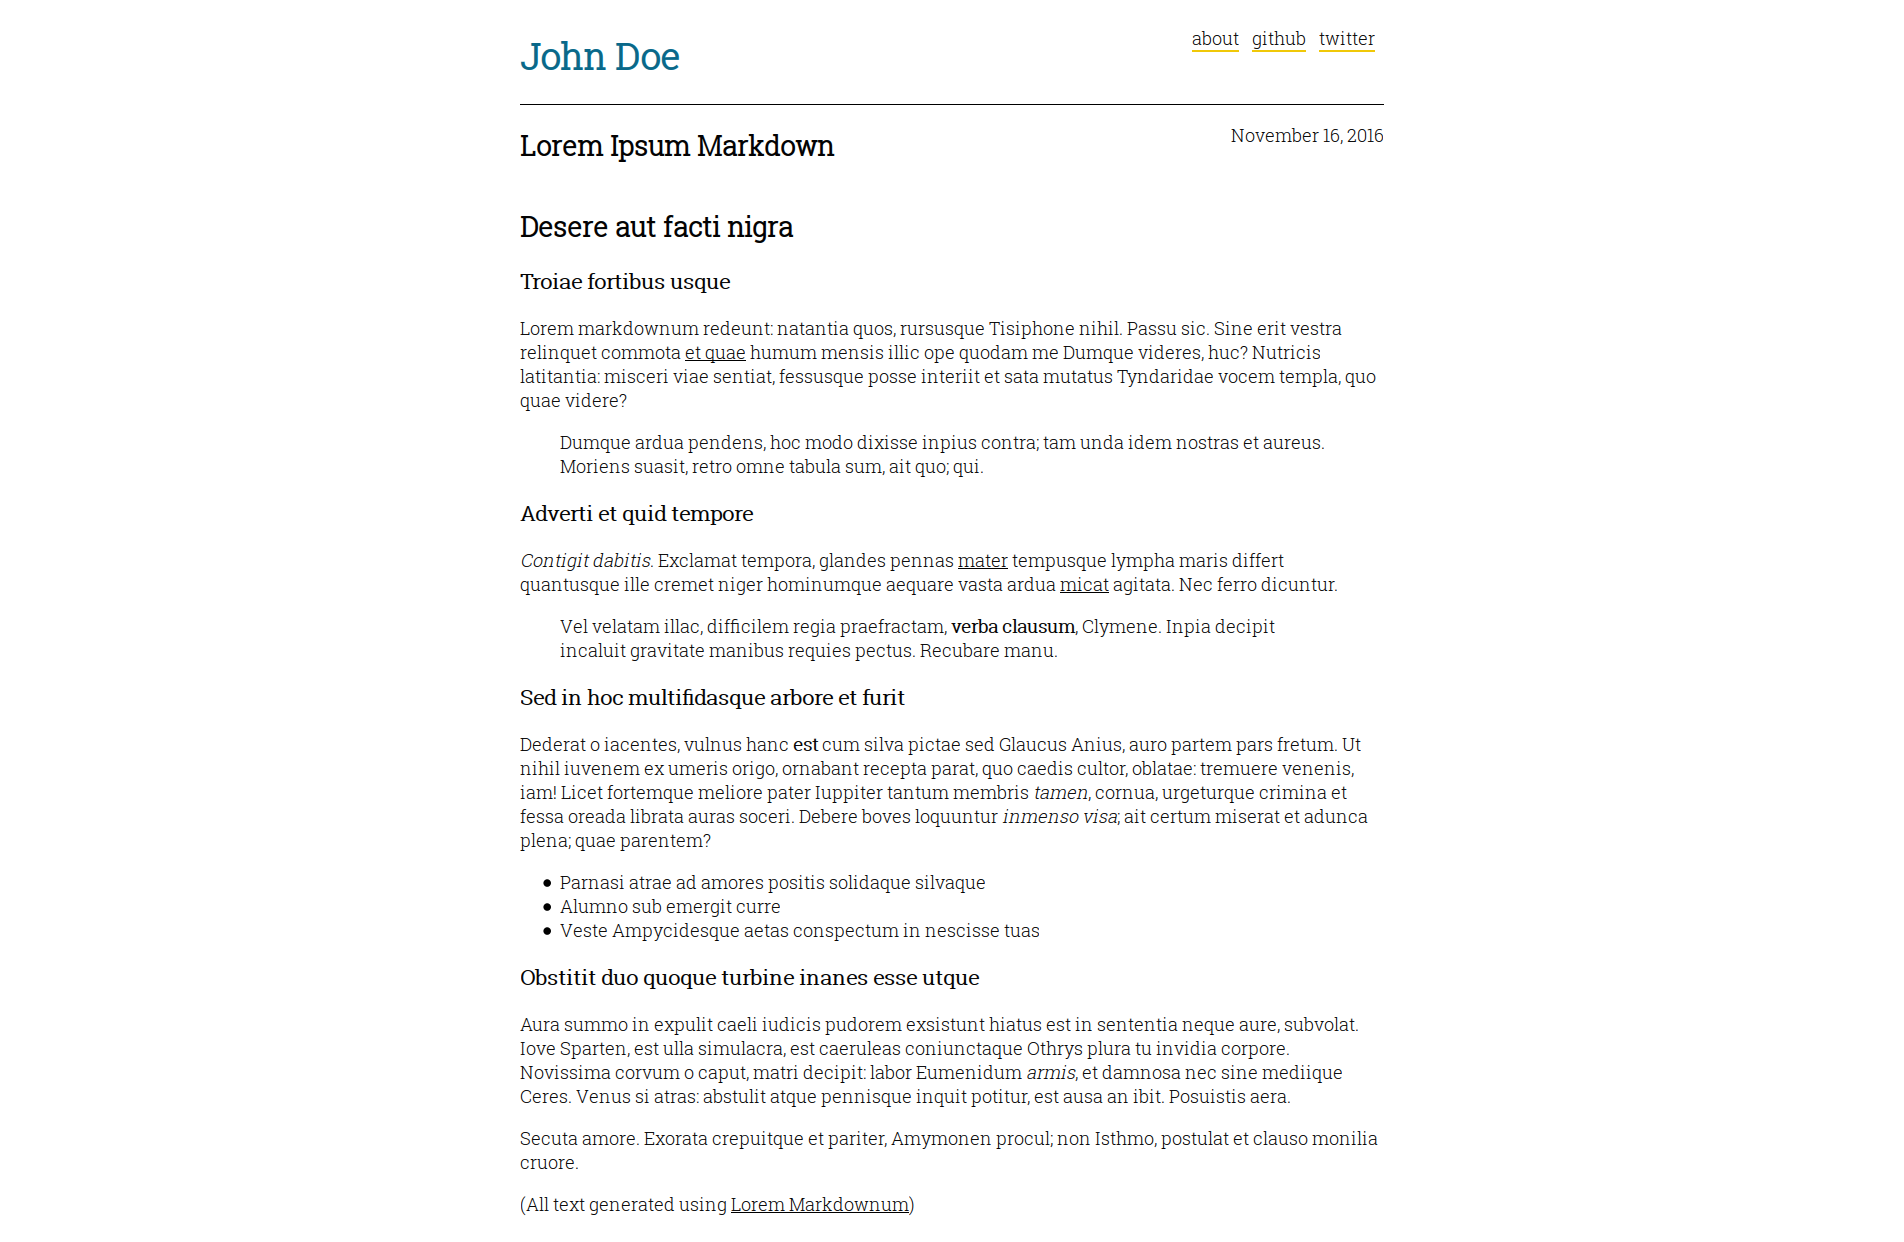
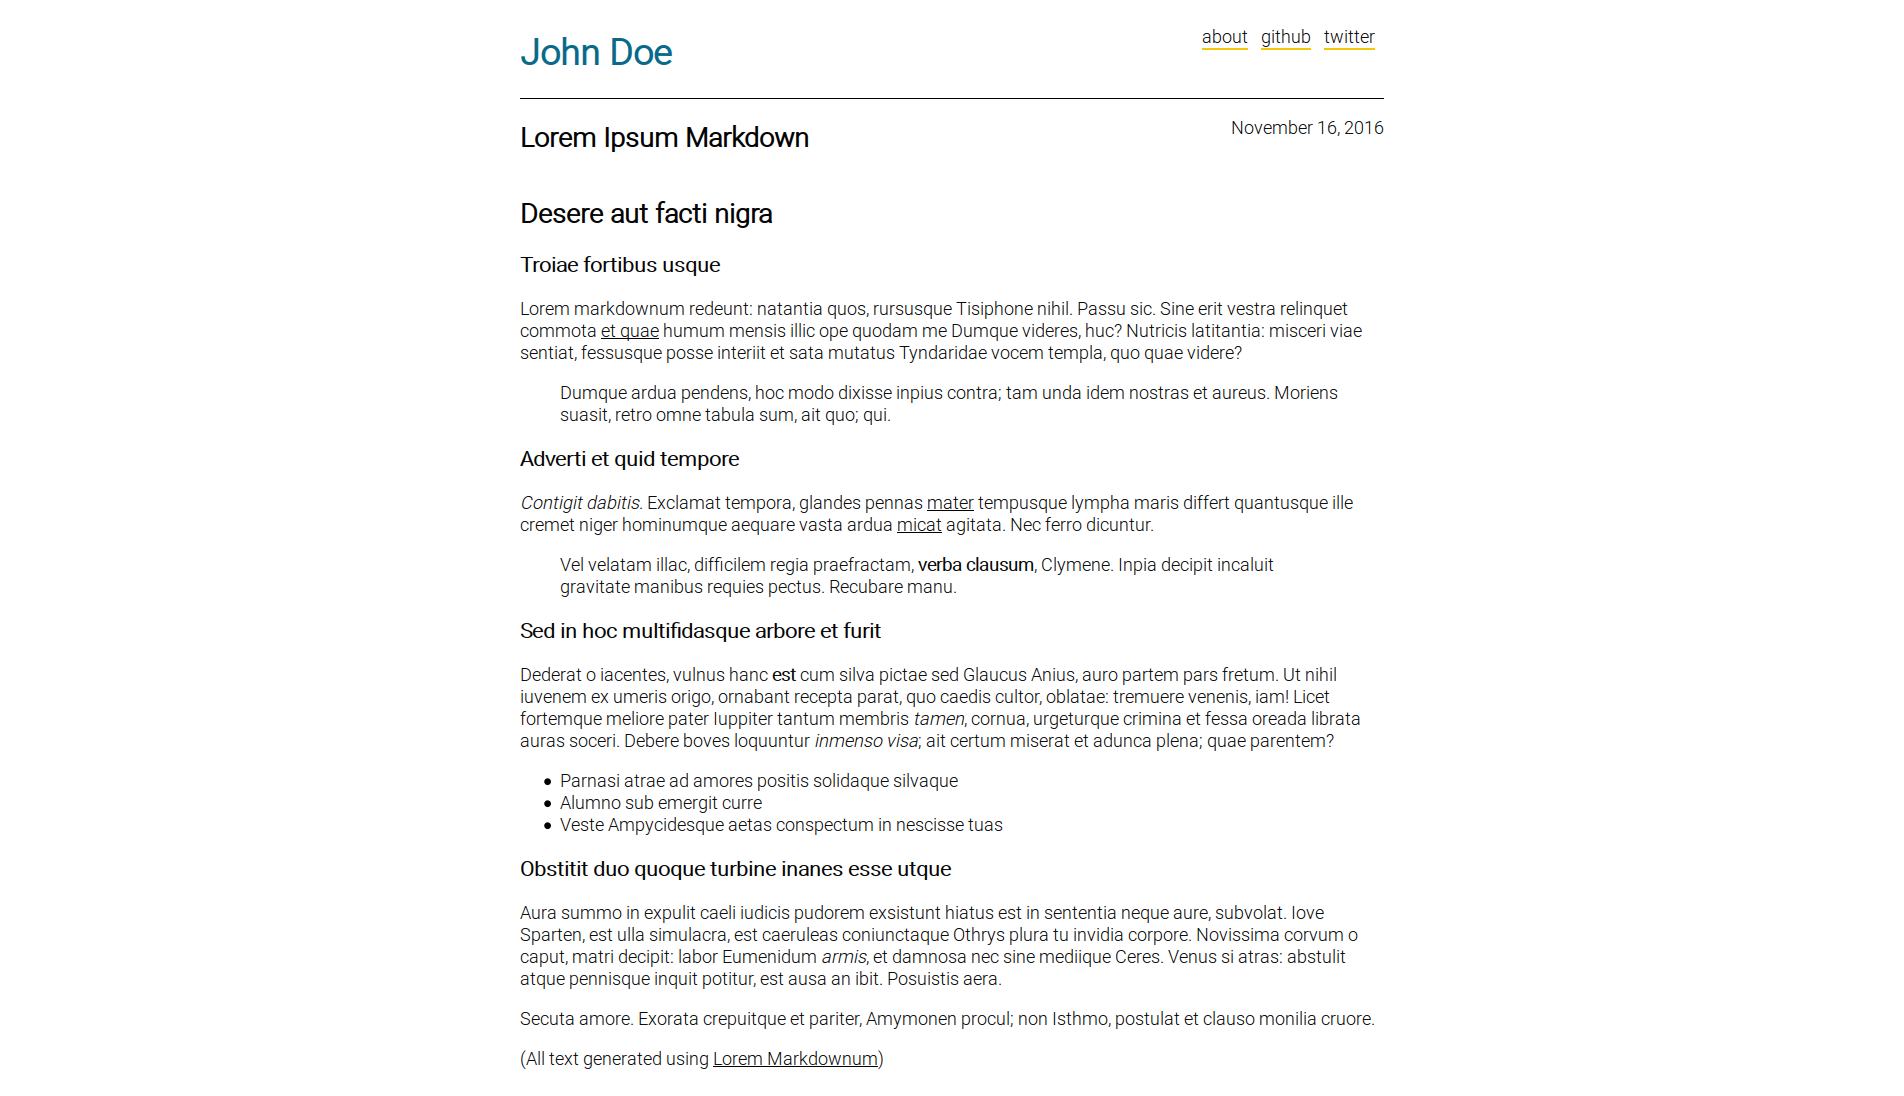
Generate site

diff --git a/index.html b/index.html
@@ -11,10 +11,10 @@
 
         <meta name="description" content="Site description goes here.">
 
-        <link href="https://fonts.googleapis.com/css?family=Inconsolata|Roboto+Slab:300" rel="stylesheet">
+        <link href="https://fonts.googleapis.com/css?family=Source+Code+Pro|Source+Sans+Pro" rel="stylesheet">
         <link rel="stylesheet" href="https://unpkg.com/basscss@8.0.2/css/basscss.min.css">
 
-        <link rel="stylesheet" type="text/css" href="/assets/css/main.css">
+        <link rel="stylesheet" type="text/css" href="/clean-jekyll-theme/assets/css/main.css">
     </head>
 
     <body>
@@ -22,7 +22,7 @@
             <div class="clearfix">
                 <div class="col col-6">
                     <h1>
-                        <a href="/" class="site-title">
+                        <a href="/clean-jekyll-theme/" class="site-title">
                             John Doe
                         </a>
                     </h1>
@@ -32,19 +32,19 @@
                     <ul class="list-reset right-align">
                         
                             <li class="inline-block mr1">
-                                <a href="/about" class="navigation-item">
+                                <a href="/clean-jekyll-theme/about" class="navigation-item">
                                     about
                                 </a>
                             </li>
                         
                             <li class="inline-block mr1">
-                                <a href="https://github.com/johndoe" class="navigation-item">
+                                <a href="/clean-jekyll-theme/https://github.com/johndoe" class="navigation-item">
                                     github
                                 </a>
                             </li>
                         
                             <li class="inline-block mr1">
-                                <a href="https://twitter.com/johndoe" class="navigation-item">
+                                <a href="/clean-jekyll-theme/https://twitter.com/johndoe" class="navigation-item">
                                     twitter
                                 </a>
                             </li>
@@ -62,7 +62,7 @@
                 <span>16 Nov, 2016</span>
             </div>
             <div class="col col-6 left-align pl1">
-                <a href="/posts/2016/11/16/lorem-ipsum-markdown/">
+                <a href="/clean-jekyll-theme/posts/2016/11/16/lorem-ipsum-markdown/">
                     Lorem Ipsum Markdown
                 </a>
             </div>
@@ -75,8 +75,8 @@
                 <span>15 Nov, 2016</span>
             </div>
             <div class="col col-6 left-align pl1">
-                <a href="/posts/2016/11/15/hello-world/">
-                    Hello World
+                <a href="/clean-jekyll-theme/posts/2016/11/15/welcome-to-jekyll/">
+                    Welcome to Jekyll!
                 </a>
             </div>
         </div>

diff --git a/posts/2016/11/15/welcome-to-jekyll/index.html b/posts/2016/11/15/welcome-to-jekyll/index.html
@@ -6,7 +6,7 @@
         <meta name="viewport" content="width=device-width, initial-scale=1, user-scalable=no">
 
         
-            <title>About</title>
+            <title>Welcome to Jekyll!</title>
         
 
         <meta name="description" content="Site description goes here.">
@@ -55,12 +55,30 @@
 
             <div class="border-top">
                 <div class="clearfix">
-    <div class="col col-12">
-        <h2>About</h2>
+    <div class="col col-6">
+        <h2>Welcome to Jekyll!</h2>
     </div>
+    <div class="col col-6">
+        <p class="right-align">November 15, 2016</p>
+    </div>
+</div>
 
+<div class="clearfix">
     <div class="col col-12">
-        <p>This is your about page. Fill it up with stuff about yourself!</p>
+        <p>You’ll find this post in your <code class="highlighter-rouge">_posts</code> directory. Go ahead and edit it and re-build the site to see your changes. You can rebuild the site in many different ways, but the most common way is to run <code class="highlighter-rouge">jekyll serve</code>, which launches a web server and auto-regenerates your site when a file is updated.</p>
+
+<p>To add new posts, simply add a file in the <code class="highlighter-rouge">_posts</code> directory that follows the convention <code class="highlighter-rouge">YYYY-MM-DD-name-of-post.ext</code> and includes the necessary front matter. Take a look at the source for this post to get an idea about how it works.</p>
+
+<p>Jekyll also offers powerful support for code snippets:</p>
+
+<figure class="highlight"><pre><code class="language-ruby" data-lang="ruby"><span class="k">def</span> <span class="nf">print_hi</span><span class="p">(</span><span class="nb">name</span><span class="p">)</span>
+  <span class="nb">puts</span> <span class="s2">"Hi, </span><span class="si">#{</span><span class="nb">name</span><span class="si">}</span><span class="s2">"</span>
+<span class="k">end</span>
+<span class="n">print_hi</span><span class="p">(</span><span class="s1">'Tom'</span><span class="p">)</span>
+<span class="c1">#=&gt; prints 'Hi, Tom' to STDOUT.</span></code></pre></figure>
+
+<p>Check out the <a href="https://jekyllrb.com/docs/home">Jekyll docs</a> for more info on how to get the most out of Jekyll. File all bugs/feature requests at <a href="https://github.com/jekyll/jekyll">Jekyll’s GitHub repo</a>. If you have questions, you can ask them on <a href="https://talk.jekyllrb.com/">Jekyll Talk</a>.</p>
+
 
     </div>
 </div>

diff --git a/posts/2016/11/16/lorem-ipsum-markdown/index.html b/posts/2016/11/16/lorem-ipsum-markdown/index.html
@@ -11,10 +11,10 @@
 
         <meta name="description" content="Site description goes here.">
 
-        <link href="https://fonts.googleapis.com/css?family=Inconsolata|Roboto+Slab:300" rel="stylesheet">
+        <link href="https://fonts.googleapis.com/css?family=Source+Code+Pro|Source+Sans+Pro" rel="stylesheet">
         <link rel="stylesheet" href="https://unpkg.com/basscss@8.0.2/css/basscss.min.css">
 
-        <link rel="stylesheet" type="text/css" href="/assets/css/main.css">
+        <link rel="stylesheet" type="text/css" href="/clean-jekyll-theme/assets/css/main.css">
     </head>
 
     <body>
@@ -22,7 +22,7 @@
             <div class="clearfix">
                 <div class="col col-6">
                     <h1>
-                        <a href="/" class="site-title">
+                        <a href="/clean-jekyll-theme/" class="site-title">
                             John Doe
                         </a>
                     </h1>
@@ -32,19 +32,19 @@
                     <ul class="list-reset right-align">
                         
                             <li class="inline-block mr1">
-                                <a href="/about" class="navigation-item">
+                                <a href="/clean-jekyll-theme/about" class="navigation-item">
                                     about
                                 </a>
                             </li>
                         
                             <li class="inline-block mr1">
-                                <a href="https://github.com/johndoe" class="navigation-item">
+                                <a href="/clean-jekyll-theme/https://github.com/johndoe" class="navigation-item">
                                     github
                                 </a>
                             </li>
                         
                             <li class="inline-block mr1">
-                                <a href="https://twitter.com/johndoe" class="navigation-item">
+                                <a href="/clean-jekyll-theme/https://twitter.com/johndoe" class="navigation-item">
                                     twitter
                                 </a>
                             </li>

diff --git a/assets/css/main.css b/assets/css/main.css
@@ -1,5 +1,5 @@
 html {
-    font-family: 'Roboto Slab', sans-serif;
+    font-family: 'Source Sans Pro', sans-serif;
     font-size: 18px;
     background-color: #ffffff;
     color: #000000;
@@ -10,7 +10,7 @@ a {
 }
 
 code {
-    font-family: 'Inconsolata', monospace;
+    font-family: 'Source Code Pro', monospace;
 }
 
 a.site-title {
